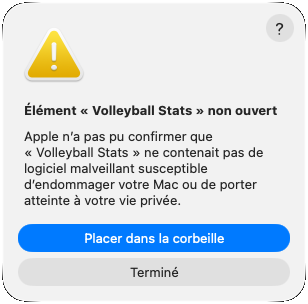
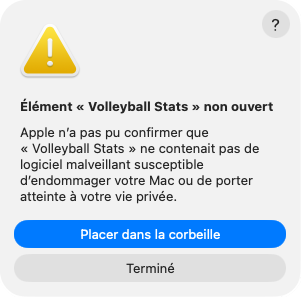
docs(easier): step 8's release and download page done (v1.0), the fresh accounts left; fix(release): the Mac dialog's screenshot without dark corners
Claude-Session: https://claude.ai/code/session_01BXV8exzhnm7hKxzN219qiN

diff --git a/docs/easier.md b/docs/easier.md
@@ -308,9 +308,16 @@ Built (26 Nov), everything but what waits on the owner:
   PowerShell is taken from `{sysnative}`), and Inno 7's RedirectionGuard, inherited by a setup that is not elevated,
   made uv's links to its Python fail (`RedirectionGuard=no`).
 - `install.sh` on a Mac: no Homebrew any more (uv's installer, the archive, ffmpeg from `tools.py`); a git checkout
-  keeps the old way. `packaging/macos/build.sh` makes `Volleyball Stats.dmg`: an ad-hoc signed `.app` whose first open
-  runs `install.sh` in Terminal, its next opens the app. Built on a Mac only: not run yet.
-- `.github/workflows/installers.yml` builds both (by hand only, `workflow_dispatch`): not run yet.
+  keeps the old way. `packaging/macos/build.sh` makes `volleyball-stats.dmg`: an ad-hoc signed `.app` whose first open
+  runs `install.sh` in Terminal, its next opens the app. Built on a Mac only.
+- `.github/workflows/installers.yml` builds both (by hand only, `workflow_dispatch`, ~1 min), and given a release's tag
+  puts them on that GitHub release with its text.
+- The download page is that release (`releases/latest`, made 26 Nov as `v1.0`): its text in
+  `packaging/release/release.md` (French then English: the two files, the way past the warning, the one-liners) with
+  the real dialogs' screenshots beside it: SmartScreen on the PC (a copy of `setup.exe` marked as downloaded, run with
+  `/?` through Explorer, closed on "Ne pas exécuter"), Gatekeeper on macOS 26 on a GitHub runner (the `.dmg` marked as
+  downloaded, opened, then Privacy & Security), both in French. The links stay
+  `releases/latest/download/volleyball-stats-setup.exe` and `…/volleyball-stats.dmg`; the README points to the page.
 
 Checked on the PC, natively, in a sandboxed profile (`USERPROFILE`, `APPDATA`, `LOCALAPPDATA` elsewhere, the owner's
 uv, ffmpeg and git off the PATH), the code from a local archive:
@@ -321,8 +328,11 @@ uv, ffmpeg and git off the PATH), the code from a local archive:
 - The uninstaller: nothing left (the folder, the launcher, ffmpeg, the entry in the installed apps).
 - `install.ps1` in a 32-bit PowerShell: refused, nothing installed.
 
-Waits on the owner: running the workflow and a GitHub release (the files to download), the download page (the
-SmartScreen and Gatekeeper screenshots), the fresh Windows 11 account and the Mac (the `.dmg` built and opened there).
+On macOS 26, the runner's Gatekeeper refuses the ad-hoc signed app ("rejected") and shows the dialog: the `.dmg` is
+built right, its open past the warning not yet seen.
+
+Waits on the owner: the fresh Windows 11 account and the Mac (the download and the double-click to Diagnostics all
+green).
 
 ## 9. Share without a server
 
@@ -425,3 +435,6 @@ One line per session: date, what was done, what is next.
   macOS (`tools.py`), `install.ps1` and `setup.exe` (Inno Setup), `install.sh` without Homebrew and the `.dmg`'s build
   (not run: a Mac), the workflow building both (not run). `setup.exe` to Diagnostics all green in 35 s, its uninstaller
   leaving nothing.
+- 26 Nov: the release `v1.0` with both files is the download page (`packaging/release/`: its text and the real
+  SmartScreen and Gatekeeper screenshots); the workflow publishes to a release given its tag; the `.dmg` renamed
+  `volleyball-stats.dmg`. Next: the fresh accounts (the owner's).
